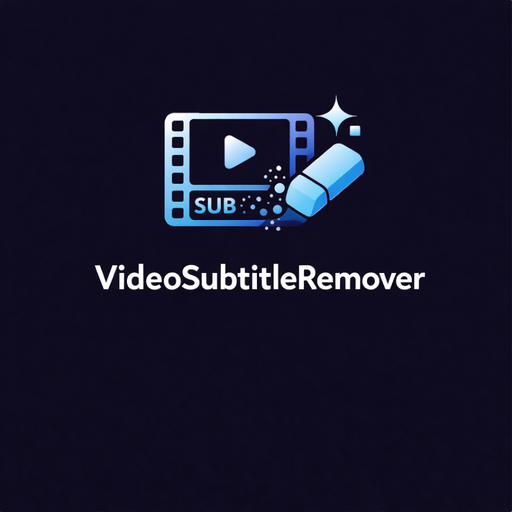
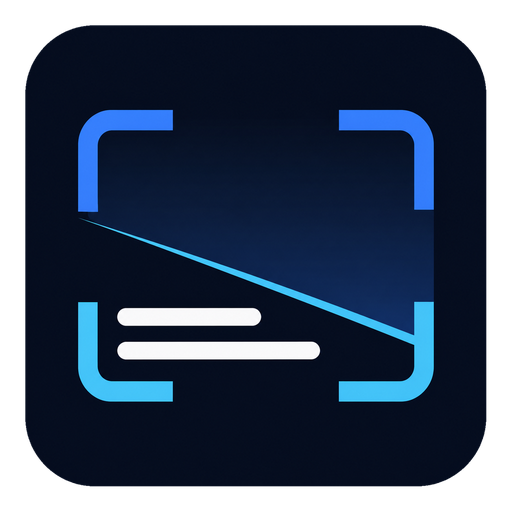
feat: refresh application branding

diff --git a/tests/test_brand_assets.py b/tests/test_brand_assets.py
@@ -1,0 +1,52 @@
+"""Brand asset contracts for source, runtime, README, and Windows packaging."""
+
+from pathlib import Path
+import unittest
+
+from PIL import Image
+
+
+ROOT = Path(__file__).resolve().parents[1]
+
+
+class BrandAssetTests(unittest.TestCase):
+    def test_png_assets_are_square_rgba_with_transparent_corners(self):
+        for relative, expected_size in (
+            ("icon.png", (512, 512)),
+            ("assets/branding/vsr-pro-mark-master.png", (1024, 1024)),
+        ):
+            with self.subTest(relative=relative):
+                with Image.open(ROOT / relative) as image:
+                    rgba = image.convert("RGBA")
+                    alpha = rgba.getchannel("A")
+                    self.assertEqual(image.size, expected_size)
+                    self.assertEqual(image.mode, "RGBA")
+                    self.assertEqual(alpha.getpixel((0, 0)), 0)
+                    self.assertEqual(
+                        alpha.getpixel((image.width // 2, image.height // 2)),
+                        255,
+                    )
+
+    def test_windows_icon_contains_small_and_large_variants(self):
+        with Image.open(ROOT / "icon.ico") as image:
+            sizes = set(image.info.get("sizes", ()))
+            expected = {
+                (16, 16), (24, 24), (32, 32), (48, 48),
+                (64, 64), (128, 128), (256, 256),
+            }
+            self.assertTrue(expected.issubset(sizes))
+            for size in expected:
+                frame = image.ico.getimage(size).convert("RGBA")
+                self.assertEqual(frame.getpixel((0, 0))[3], 0)
+
+    def test_readme_and_frozen_spec_use_the_brand_assets(self):
+        readme = (ROOT / "README.md").read_text(encoding="utf-8")
+        spec = (ROOT / "VideoSubtitleRemoverPro.spec").read_text(
+            encoding="utf-8")
+        self.assertIn('src="icon.png"', readme)
+        self.assertIn("('icon.png', '.')", spec)
+        self.assertIn("icon=['icon.ico']", spec)
+
+
+if __name__ == "__main__":
+    unittest.main()

diff --git a/gui/app.py b/gui/app.py
@@ -215,7 +215,7 @@ class VideoSubtitleRemoverApp(
         self._active_remover = None
         self._active_subprocess: Optional[subprocess.Popen] = None
         self._selected_queue_item_id: Optional[str] = None
-        self._brand_photo = None
+        self._brand_photo = getattr(self, "_app_icon_photo", None)
         self._status_tone = "neutral"
         self._shutdown_started = False
         self._taskbar = None  # created after the root is fully realized

diff --git a/tests/test_gui_smoke.py b/tests/test_gui_smoke.py
@@ -161,6 +161,8 @@ class GuiSmokeTests(unittest.TestCase):
         app = self._make_app()
         try:
             self.assertEqual(app.root.title()[:23], "Video Subtitle Remover ")
+            self.assertIsNotNone(app._brand_photo)
+            self.assertIs(app._brand_photo, app._app_icon_photo)
             app.root.update_idletasks()
         finally:
             self._destroy_app(app)

diff --git a/README.md b/README.md
@@ -1,6 +1,8 @@
+<p align="center">
+  <img src="icon.png" alt="Video Subtitle Remover Pro restoration-frame logo" width="144" height="144">
+</p>
 
-
-# Video Subtitle Remover Pro
+<h1 align="center">Video Subtitle Remover Pro</h1>
 
 <div align="center">
 

diff --git a/CHANGELOG.md b/CHANGELOG.md
@@ -6,6 +6,11 @@ All notable changes to VideoSubtitleRemover will be documented in this file.
 
 ### Changed
 
+- **Application branding now matches the premium workbench.** The previous
+  text-heavy eraser illustration has been replaced by a compact restoration
+  frame mark with transparent corners, a 512 px PNG, and a seven-size Windows
+  ICO. The same mark now appears in the README, window chrome, packaged EXE,
+  and About dialog.
 - **The workbench now prioritizes the controls used for every cleanup.** A
   compact command bar keeps media import, cleanup profile, subtitle region,
   output, and Start cleanup above the preview. The preview and inspector share